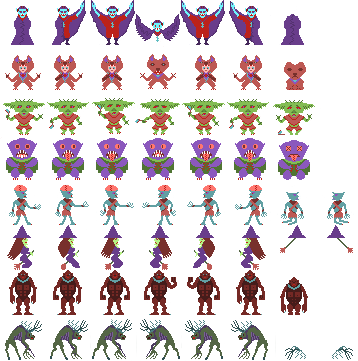
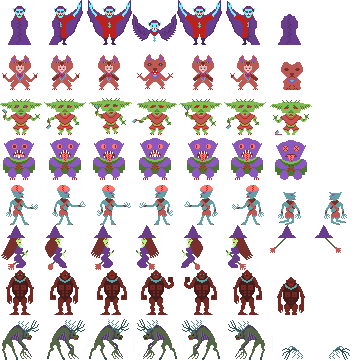
Enemies position fix

diff --git a/static/mario/src/mainGame/Enemy.js b/static/mario/src/mainGame/Enemy.js
@@ -10,7 +10,7 @@ export default class Enemy extends Drawable {
     }
 
     frame = 0;
-    width = 45;
+    cellWidth = 45;
     height = 45;
 
     tickCounter = 0;
@@ -22,11 +22,13 @@ export default class Enemy extends Drawable {
         this.velX = 1;
         this.state = 'alive';
         this.grounded = false;
+        this.width = type === Types.Witch ? 28 : 45;
     }
 
     setSXBeforeDraw() {
         this.sY = this.height * (this.type - 20);
-        this.sX = this.width * this.frame;
+        if (this.state !== 'alive') this.sY += 1;
+        this.sX = this.cellWidth * this.frame;
     }
 
     get isDirected() {
